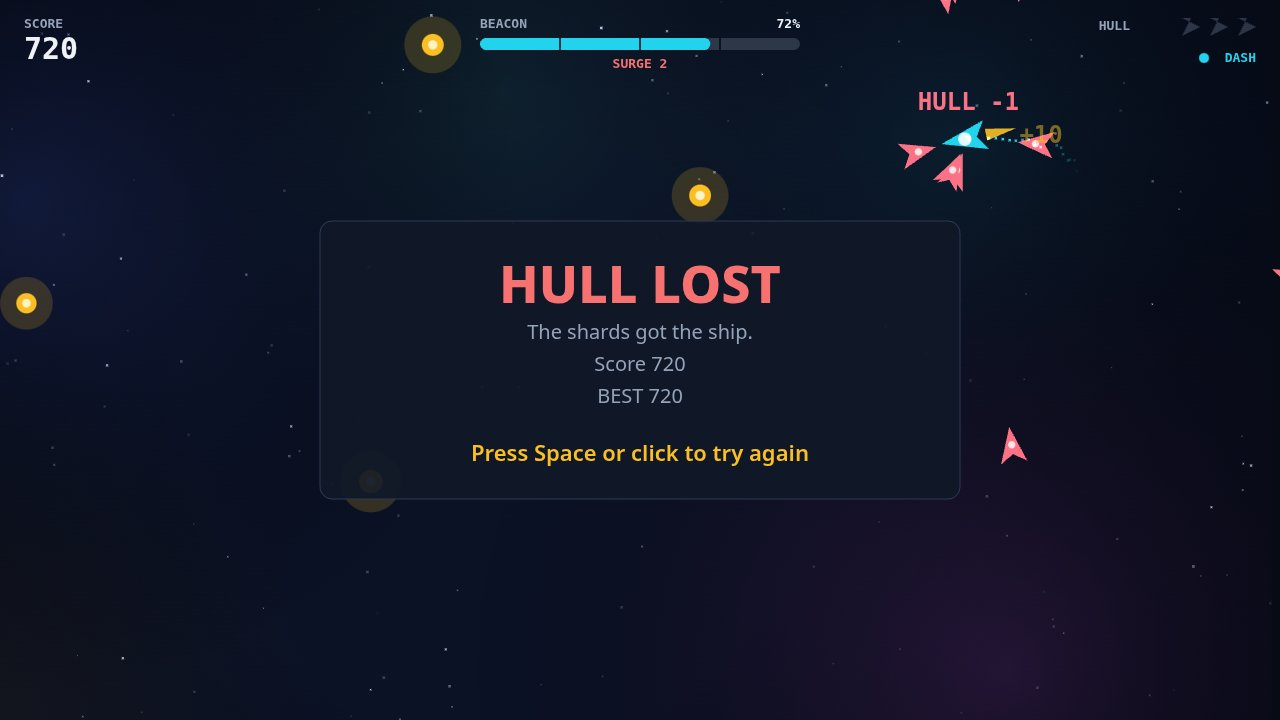
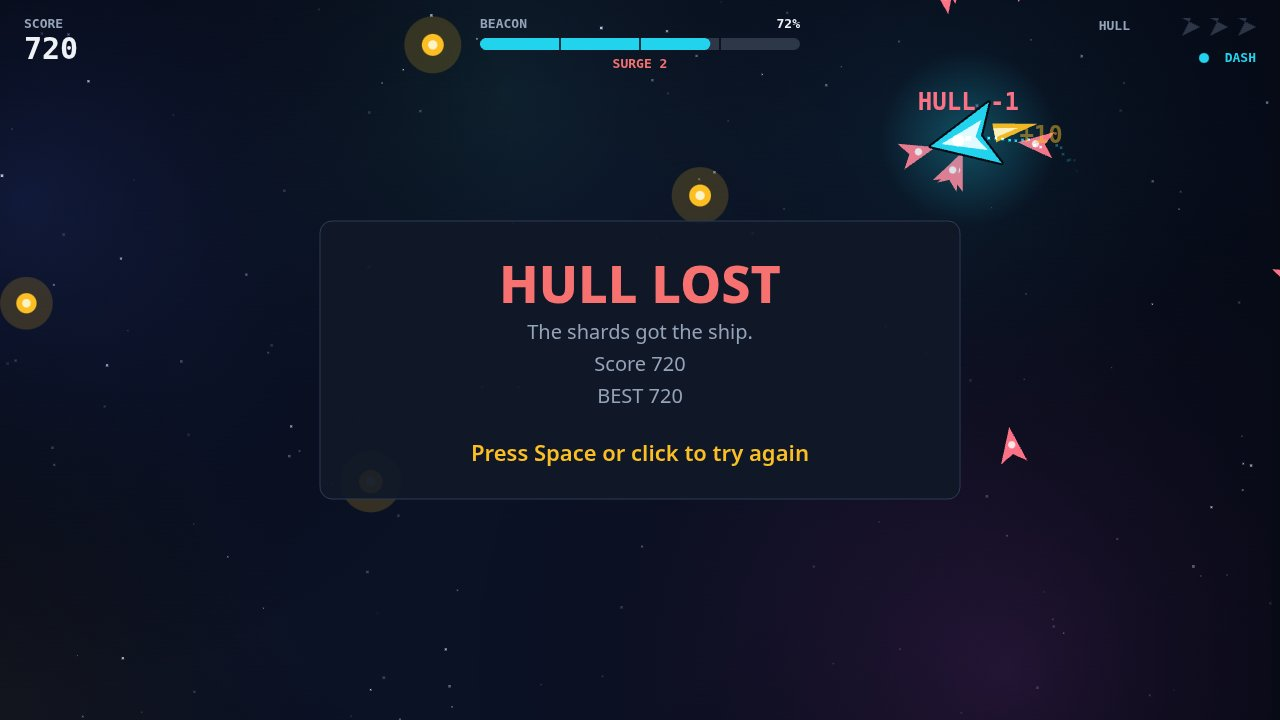
Bigger, clearer ship, re-stage shots

Changed region(s): [[0.7188, 0.1222, 0.8125, 0.275]]

diff --git a/game/src/render.js b/game/src/render.js
@@ -224,35 +224,69 @@ export function createRenderer(canvas) {
     }
   }
 
+  // The ship is drawn much bigger than its hitbox (SHIP.radius): the hitbox stays
+  // small so the game stays fair, while the sprite is the hero of the frame.
+  const SHIP_DRAW = SHIP.radius * 1.8;
+
   function drawShip(state) {
     const p = state.player;
     // Blink while invulnerable after a hit: hidden on every other tenth of a second.
     if (p.invuln > 0 && Math.floor(p.invuln * 10) % 2 === 0) return;
+    const R = SHIP_DRAW;
     context.save();
     context.translate(p.x, p.y);
     context.rotate(p.angle);
+    // A soft cyan halo so the ship reads over the brightest nebula, too.
+    const halo = context.createRadialGradient(0, 0, 0, 0, 0, R * 2.4);
+    halo.addColorStop(0, 'rgba(34,211,238,0.28)');
+    halo.addColorStop(1, 'rgba(34,211,238,0)');
+    context.fillStyle = halo;
+    context.beginPath();
+    context.arc(0, 0, R * 2.4, 0, Math.PI * 2);
+    context.fill();
     const thrusting = Math.hypot(p.vx, p.vy) > 60;
     if (thrusting || p.dashT > 0) {
-      const flame = p.dashT > 0 ? 38 : 18 + 8 * Math.sin(state.elapsed * 30);
-      context.fillStyle = 'rgba(251,191,36,0.9)';
+      const flame = p.dashT > 0 ? 58 : 30 + 10 * Math.sin(state.elapsed * 30);
+      context.fillStyle = 'rgba(251,191,36,0.95)';
       context.beginPath();
-      context.moveTo(-SHIP.radius + 2, 5);
-      context.lineTo(-SHIP.radius - flame, 0);
-      context.lineTo(-SHIP.radius + 2, -5);
+      context.moveTo(-R * 0.72, 8);
+      context.lineTo(-R * 0.72 - flame, 0);
+      context.lineTo(-R * 0.72, -8);
+      context.closePath();
+      context.fill();
+      context.fillStyle = 'rgba(254,243,199,0.95)';
+      context.beginPath();
+      context.moveTo(-R * 0.72, 4);
+      context.lineTo(-R * 0.72 - flame * 0.55, 0);
+      context.lineTo(-R * 0.72, -4);
       context.closePath();
       context.fill();
     }
-    context.fillStyle = PALETTE.ship;
+    // Broad delta hull: a dark outline first so the silhouette holds against any
+    // background, then the cyan fill, then a bright white-cyan core.
     context.beginPath();
-    context.moveTo(SHIP.radius + 6, 0);
-    context.lineTo(-SHIP.radius + 2, SHIP.radius * 0.72);
-    context.lineTo(-SHIP.radius * 0.42, 0);
-    context.lineTo(-SHIP.radius + 2, -SHIP.radius * 0.72);
+    context.moveTo(R * 1.05, 0);
+    context.lineTo(-R * 0.75, R * 0.85);
+    context.lineTo(-R * 0.35, 0);
+    context.lineTo(-R * 0.75, -R * 0.85);
     context.closePath();
+    context.strokeStyle = 'rgba(4,8,18,0.95)';
+    context.lineWidth = 3.5;
+    context.lineJoin = 'round';
+    context.stroke();
+    context.fillStyle = PALETTE.ship;
     context.fill();
     context.fillStyle = PALETTE.shipCore;
     context.beginPath();
-    context.arc(3, 0, 5.5, 0, Math.PI * 2);
+    context.moveTo(R * 0.75, 0);
+    context.lineTo(-R * 0.45, R * 0.42);
+    context.lineTo(-R * 0.2, 0);
+    context.lineTo(-R * 0.45, -R * 0.42);
+    context.closePath();
+    context.fill();
+    context.fillStyle = '#ffffff';
+    context.beginPath();
+    context.arc(R * 0.28, 0, R * 0.16, 0, Math.PI * 2);
     context.fill();
     context.restore();
     // Dash leaves a fading cyan wake.
@@ -260,7 +294,7 @@ export function createRenderer(canvas) {
       context.globalAlpha = 0.35;
       context.fillStyle = PALETTE.ship;
       context.beginPath();
-      context.arc(p.x - Math.cos(p.angle) * 26, p.y - Math.sin(p.angle) * 26, 9, 0, Math.PI * 2);
+      context.arc(p.x - Math.cos(p.angle) * R * 1.35, p.y - Math.sin(p.angle) * R * 1.35, R * 0.45, 0, Math.PI * 2);
       context.fill();
       context.globalAlpha = 1;
     }
